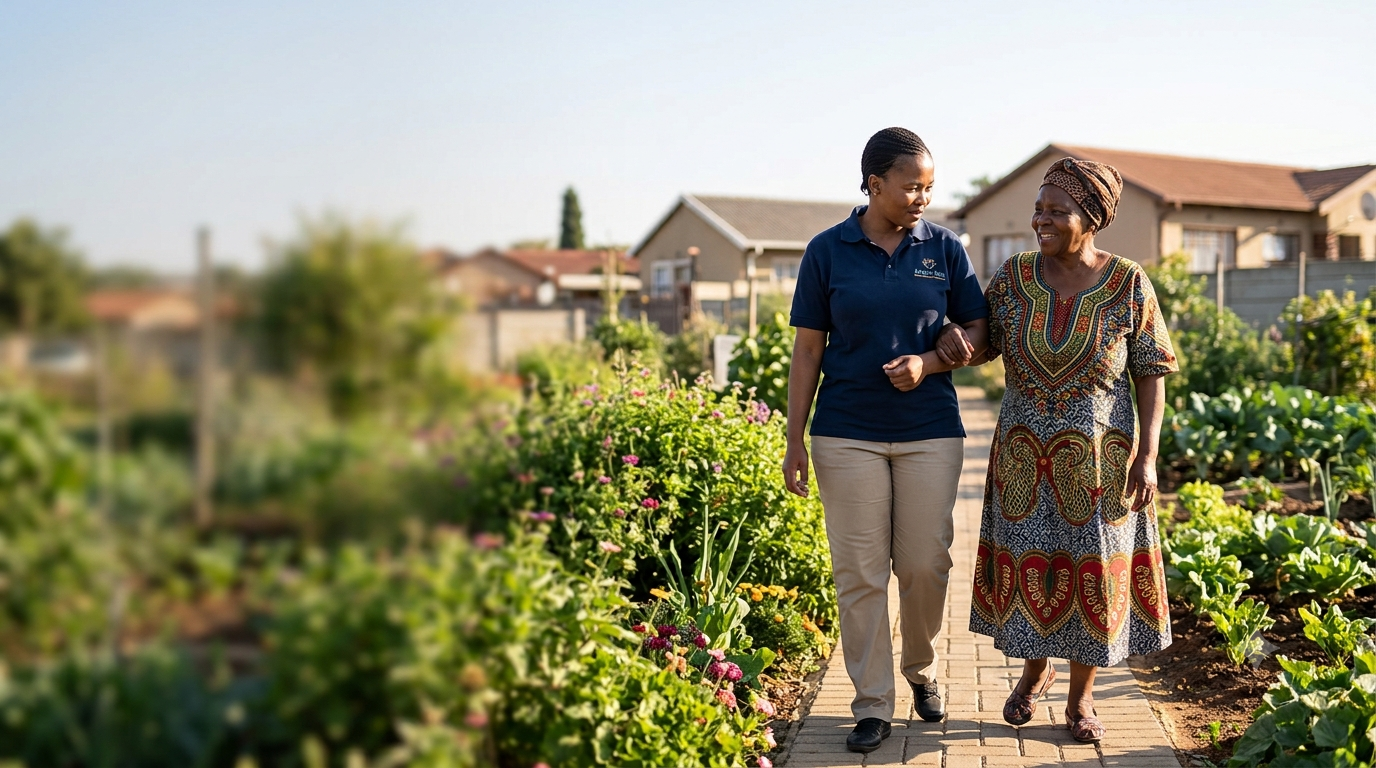
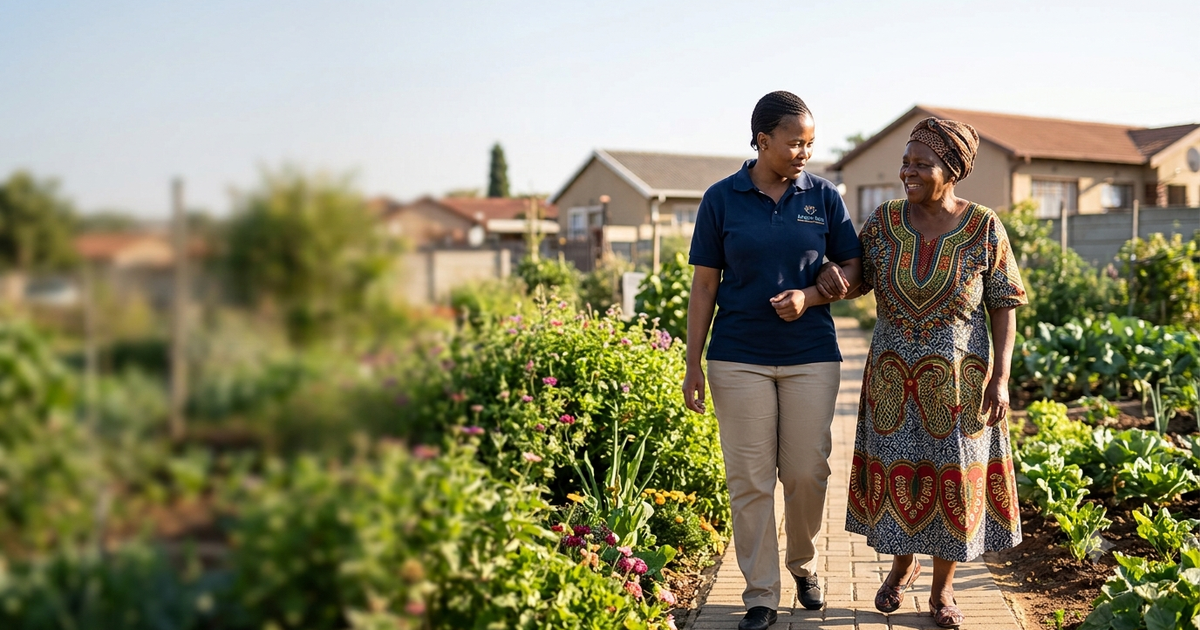
feat: upgrade production SEO and structured metadata

diff --git a/src/seo.ts b/src/seo.ts
@@ -1,0 +1,152 @@
+export const SITE_URL = 'https://kitsonet.org.za'
+export const SITE_NAME = 'Kitso-Net'
+export const DEFAULT_SOCIAL_IMAGE = '/images/social-preview.png'
+
+export type SeoConfig = {
+  title: string
+  description: string
+  path: string
+  keywords?: string[]
+  noIndex?: boolean
+}
+
+export const seoByPath: Record<string, SeoConfig> = {
+  '/': {
+    path: '/',
+    title: 'Kitso-Net | Older Persons Care in Johannesburg',
+    description: 'Kitso-Net provides home-based care, health support, active-ageing programmes and compassionate community support for older persons in Johannesburg.',
+    keywords: ['older persons care Johannesburg', 'home-based care Johannesburg', 'elderly care Johannesburg', 'active ageing South Africa', 'community care NGO Johannesburg'],
+  },
+  '/about': {
+    path: '/about',
+    title: 'About Kitso-Net | Community Care in Johannesburg Since 2003',
+    description: 'Meet Kitso-Net, a Johannesburg non-profit supporting older persons, families and caregivers through practical, community-rooted care since 2003.',
+    keywords: ['Kitso-Net', 'Johannesburg non-profit', 'older persons NGO Johannesburg', 'community care South Africa'],
+  },
+  '/programmes': {
+    path: '/programmes',
+    title: 'Older Persons Care Programmes in Johannesburg | Kitso-Net',
+    description: 'Explore home-based care, active ageing, health outreach, counselling and psychosocial support for older persons and families in Johannesburg.',
+    keywords: ['home-based care Johannesburg', 'active ageing programmes', 'older persons support Johannesburg', 'health outreach Johannesburg', 'elderly counselling support'],
+  },
+  '/impact': {
+    path: '/impact',
+    title: 'Community Impact for Older Persons in Johannesburg | Kitso-Net',
+    description: 'See how Kitso-Net strengthens dignity, independence and connection for older persons, families and communities across Johannesburg.',
+    keywords: ['older persons community impact', 'Johannesburg community care', 'elderly support NGO impact'],
+  },
+  '/get-involved': {
+    path: '/get-involved',
+    title: 'Donate, Volunteer or Partner with Kitso-Net | Johannesburg',
+    description: 'Donate, volunteer, partner or contribute resources to help Kitso-Net provide dependable community care for older persons in Johannesburg.',
+    keywords: ['donate elderly care Johannesburg', 'volunteer older persons Johannesburg', 'NGO partnership Johannesburg', 'support Kitso-Net'],
+  },
+  '/contact': {
+    path: '/contact',
+    title: 'Contact Kitso-Net | Older Persons Care & Referrals Johannesburg',
+    description: 'Contact Kitso-Net for older persons care enquiries, referrals, volunteering, donations and partnerships in Johannesburg, South Africa.',
+    keywords: ['older persons care contact Johannesburg', 'elderly care referral Johannesburg', 'Kitso-Net contact'],
+  },
+  '/privacy': {
+    path: '/privacy',
+    title: 'Privacy Policy | Kitso-Net',
+    description: 'Read how Kitso-Net collects, uses, protects and manages personal information submitted through this website.',
+  },
+  '/terms': {
+    path: '/terms',
+    title: 'Terms of Use | Kitso-Net',
+    description: 'Read the terms governing use of the Kitso-Net website, its information, content and online services.',
+  },
+}
+
+const organisation = {
+  '@type': 'NGO',
+  '@id': `${SITE_URL}/#organization`,
+  name: SITE_NAME,
+  url: SITE_URL,
+  logo: {
+    '@type': 'ImageObject',
+    url: `${SITE_URL}/images/kitsonet-favicon.png`,
+    width: 512,
+    height: 512,
+  },
+  image: `${SITE_URL}${DEFAULT_SOCIAL_IMAGE}`,
+  foundingDate: '2003',
+  description: 'A community-focused non-profit organisation providing care and support to older persons and families in Johannesburg.',
+  email: 'Kitsonet@classicmail.co.za',
+  address: {
+    '@type': 'PostalAddress',
+    streetAddress: 'No. 1 Rose Street, Rosettenville',
+    addressLocality: 'Johannesburg',
+    postalCode: '2190',
+    addressCountry: 'ZA',
+  },
+  areaServed: {
+    '@type': 'City',
+    name: 'Johannesburg',
+  },
+}
+
+const website = {
+  '@type': 'WebSite',
+  '@id': `${SITE_URL}/#website`,
+  url: `${SITE_URL}/`,
+  name: SITE_NAME,
+  inLanguage: 'en-ZA',
+  publisher: { '@id': `${SITE_URL}/#organization` },
+}
+
+export function structuredDataForPath(path: string) {
+  const config = seoByPath[path]
+  if (!config) return undefined
+
+  const canonical = `${SITE_URL}${path === '/' ? '/' : path}`
+  const pageType = path === '/about' ? 'AboutPage' : path === '/contact' ? 'ContactPage' : path === '/programmes' ? 'CollectionPage' : 'WebPage'
+  const page = {
+    '@type': pageType,
+    '@id': `${canonical}#webpage`,
+    url: canonical,
+    name: config.title,
+    description: config.description,
+    isPartOf: { '@id': `${SITE_URL}/#website` },
+    about: { '@id': `${SITE_URL}/#organization` },
+    inLanguage: 'en-ZA',
+  }
+
+  const graph: Record<string, unknown>[] = [organisation, website, page]
+
+  if (path !== '/') {
+    graph.push({
+      '@type': 'BreadcrumbList',
+      '@id': `${canonical}#breadcrumb`,
+      itemListElement: [
+        { '@type': 'ListItem', position: 1, name: 'Home', item: `${SITE_URL}/` },
+        { '@type': 'ListItem', position: 2, name: config.title.split(' | ')[0], item: canonical },
+      ],
+    })
+  }
+
+  if (path === '/programmes') {
+    graph.push({
+      '@type': 'ItemList',
+      name: 'Kitso-Net care programmes',
+      itemListElement: [
+        'Home-Based Care',
+        'Service Centre & Active Ageing',
+        'Health Promotion & Community Outreach',
+        'Counselling & Psychosocial Support',
+      ].map((name, index) => ({
+        '@type': 'ListItem',
+        position: index + 1,
+        item: {
+          '@type': 'Service',
+          name,
+          provider: { '@id': `${SITE_URL}/#organization` },
+          areaServed: { '@type': 'City', name: 'Johannesburg' },
+        },
+      })),
+    })
+  }
+
+  return { '@context': 'https://schema.org', '@graph': graph }
+}

diff --git a/src/components/Seo.tsx b/src/components/Seo.tsx
@@ -1,15 +1,16 @@
 import { useEffect } from 'react'
+import { DEFAULT_SOCIAL_IMAGE, SITE_NAME, SITE_URL } from '../seo'
 
 type SeoProps = {
   title: string
   description: string
   path: string
   image?: string
+  imageAlt?: string
+  keywords?: string[]
   noIndex?: boolean
   structuredData?: Record<string, unknown> | Array<Record<string, unknown>>
 }
-
-const DEFAULT_IMAGE = '/images/social-preview.png'
 
 function upsertMeta(selector: string, attributes: Record<string, string>) {
   let element = document.head.querySelector<HTMLMetaElement>(selector)
@@ -20,41 +21,62 @@ function upsertMeta(selector: string, attributes: Record<string, string>) {
   Object.entries(attributes).forEach(([key, value]) => element?.setAttribute(key, value))
 }
 
-function upsertLink(rel: string, href: string) {
-  let element = document.head.querySelector<HTMLLinkElement>(`link[rel="${rel}"]`)
+function upsertLink(rel: string, href: string, hreflang?: string) {
+  const selector = hreflang ? `link[rel="${rel}"][hreflang="${hreflang}"]` : `link[rel="${rel}"]:not([hreflang])`
+  let element = document.head.querySelector<HTMLLinkElement>(selector)
   if (!element) {
     element = document.createElement('link')
     element.rel = rel
     document.head.appendChild(element)
   }
   element.href = href
+  if (hreflang) element.hreflang = hreflang
 }
 
-export default function Seo({ title, description, path, image = DEFAULT_IMAGE, noIndex = false, structuredData }: SeoProps) {
+export default function Seo({
+  title,
+  description,
+  path,
+  image = DEFAULT_SOCIAL_IMAGE,
+  imageAlt = 'Kitso-Net community care for older persons in Johannesburg',
+  keywords = [],
+  noIndex = false,
+  structuredData,
+}: SeoProps) {
   useEffect(() => {
-    const siteUrl = (import.meta.env.VITE_SITE_URL || window.location.origin).replace(/\/$/, '')
-    const canonicalUrl = `${siteUrl}${path === '/' ? '' : path}`
+    const configuredSiteUrl = import.meta.env.VITE_SITE_URL?.replace(/\/$/, '')
+    const siteUrl = configuredSiteUrl || (import.meta.env.PROD ? SITE_URL : window.location.origin)
+    const canonicalUrl = `${siteUrl}${path === '/' ? '/' : path}`
     const imageUrl = image.startsWith('http') ? image : `${siteUrl}${image}`
 
     document.title = title
     upsertMeta('meta[name="description"]', { name: 'description', content: description })
-    upsertMeta('meta[name="robots"]', { name: 'robots', content: noIndex ? 'noindex, nofollow' : 'index, follow, max-image-preview:large' })
+    upsertMeta('meta[name="robots"]', { name: 'robots', content: noIndex ? 'noindex, nofollow' : 'index, follow, max-image-preview:large, max-snippet:-1, max-video-preview:-1' })
+    upsertMeta('meta[name="googlebot"]', { name: 'googlebot', content: noIndex ? 'noindex, nofollow' : 'index, follow, max-image-preview:large, max-snippet:-1, max-video-preview:-1' })
+    if (keywords.length) upsertMeta('meta[name="keywords"]', { name: 'keywords', content: keywords.join(', ') })
 
     upsertMeta('meta[property="og:title"]', { property: 'og:title', content: title })
     upsertMeta('meta[property="og:description"]', { property: 'og:description', content: description })
     upsertMeta('meta[property="og:type"]', { property: 'og:type', content: 'website' })
     upsertMeta('meta[property="og:url"]', { property: 'og:url', content: canonicalUrl })
     upsertMeta('meta[property="og:image"]', { property: 'og:image', content: imageUrl })
-    upsertMeta('meta[property="og:image:alt"]', { property: 'og:image:alt', content: 'Kitso-Net community care for older persons' })
-    upsertMeta('meta[property="og:site_name"]', { property: 'og:site_name', content: 'Kitso-Net' })
+    upsertMeta('meta[property="og:image:secure_url"]', { property: 'og:image:secure_url', content: imageUrl })
+    upsertMeta('meta[property="og:image:type"]', { property: 'og:image:type', content: 'image/png' })
+    upsertMeta('meta[property="og:image:width"]', { property: 'og:image:width', content: '1200' })
+    upsertMeta('meta[property="og:image:height"]', { property: 'og:image:height', content: '630' })
+    upsertMeta('meta[property="og:image:alt"]', { property: 'og:image:alt', content: imageAlt })
+    upsertMeta('meta[property="og:site_name"]', { property: 'og:site_name', content: SITE_NAME })
     upsertMeta('meta[property="og:locale"]', { property: 'og:locale', content: 'en_ZA' })
 
     upsertMeta('meta[name="twitter:card"]', { name: 'twitter:card', content: 'summary_large_image' })
     upsertMeta('meta[name="twitter:title"]', { name: 'twitter:title', content: title })
     upsertMeta('meta[name="twitter:description"]', { name: 'twitter:description', content: description })
     upsertMeta('meta[name="twitter:image"]', { name: 'twitter:image', content: imageUrl })
+    upsertMeta('meta[name="twitter:image:alt"]', { name: 'twitter:image:alt', content: imageAlt })
 
     upsertLink('canonical', canonicalUrl)
+    upsertLink('alternate', canonicalUrl, 'en-ZA')
+    upsertLink('alternate', canonicalUrl, 'x-default')
 
     const scriptId = 'kitso-net-structured-data'
     document.getElementById(scriptId)?.remove()
@@ -65,7 +87,7 @@ export default function Seo({ title, description, path, image = DEFAULT_IMAGE, n
       script.textContent = JSON.stringify(structuredData)
       document.head.appendChild(script)
     }
-  }, [title, description, path, image, noIndex, structuredData])
+  }, [title, description, path, image, imageAlt, keywords, noIndex, structuredData])
 
   return null
 }

diff --git a/index.html b/index.html
@@ -3,31 +3,41 @@
   <head>
     <meta charset="UTF-8" />
     <meta name="viewport" content="width=device-width, initial-scale=1.0" />
-    <meta name="description" content="Kitso-Net provides compassionate home-based care, health support, active-ageing programmes and meaningful connection for older persons and families in Johannesburg." />
-    <meta name="robots" content="index, follow, max-image-preview:large" />
+    <meta name="description" content="Kitso-Net provides home-based care, health support, active-ageing programmes and compassionate community support for older persons in Johannesburg." />
+    <meta name="robots" content="index, follow, max-image-preview:large, max-snippet:-1, max-video-preview:-1" />
+    <meta name="googlebot" content="index, follow, max-image-preview:large, max-snippet:-1, max-video-preview:-1" />
     <meta name="theme-color" content="#235249" />
     <meta name="format-detection" content="telephone=yes" />
 
-    <meta property="og:title" content="Kitso-Net | Community Care for Older Persons in Johannesburg" />
-    <meta property="og:description" content="Compassionate community-based care and support for older persons and families in Johannesburg." />
+    <meta property="og:title" content="Kitso-Net | Older Persons Care in Johannesburg" />
+    <meta property="og:description" content="Home-based care, health support, active ageing and compassionate community support for older persons and families in Johannesburg." />
     <meta property="og:type" content="website" />
+    <meta property="og:url" content="https://kitsonet.org.za/" />
     <meta property="og:site_name" content="Kitso-Net" />
     <meta property="og:locale" content="en_ZA" />
-    <meta property="og:image" content="/images/social-preview.png" />
+    <meta property="og:image" content="https://kitsonet.org.za/images/social-preview.png" />
+    <meta property="og:image:secure_url" content="https://kitsonet.org.za/images/social-preview.png" />
+    <meta property="og:image:type" content="image/png" />
+    <meta property="og:image:width" content="1200" />
+    <meta property="og:image:height" content="630" />
     <meta property="og:image:alt" content="Kitso-Net community care for older persons" />
 
     <meta name="twitter:card" content="summary_large_image" />
-    <meta name="twitter:title" content="Kitso-Net | Community Care for Older Persons" />
-    <meta name="twitter:description" content="Compassionate community-based care and support for older persons and families in Johannesburg." />
-    <meta name="twitter:image" content="/images/social-preview.png" />
+    <meta name="twitter:title" content="Kitso-Net | Older Persons Care in Johannesburg" />
+    <meta name="twitter:description" content="Home-based care, health support, active ageing and compassionate community support for older persons and families in Johannesburg." />
+    <meta name="twitter:image" content="https://kitsonet.org.za/images/social-preview.png" />
+    <meta name="twitter:image:alt" content="Kitso-Net community care for older persons in Johannesburg" />
 
+    <link rel="canonical" href="https://kitsonet.org.za/" />
+    <link rel="alternate" hreflang="en-ZA" href="https://kitsonet.org.za/" />
+    <link rel="alternate" hreflang="x-default" href="https://kitsonet.org.za/" />
     <link rel="icon" type="image/png" href="/images/kitsonet-favicon.png" />
     <link rel="apple-touch-icon" href="/images/kitsonet-favicon.png" />
     <link rel="preconnect" href="https://fonts.googleapis.com" />
     <link rel="preconnect" href="https://fonts.gstatic.com" crossorigin />
     <link href="https://fonts.googleapis.com/css2?family=Cormorant+Garamond:wght@500;600;700&family=DM+Sans:wght@400;500;600;700&display=swap" rel="stylesheet" />
 
-    <title>Kitso-Net | Community Care for Older Persons in Johannesburg</title>
+    <title>Kitso-Net | Older Persons Care in Johannesburg</title>
   </head>
   <body>
     <div id="root"></div>

diff --git a/src/App.tsx b/src/App.tsx
@@ -10,58 +10,7 @@ import GetInvolvedPage from './pages/GetInvolvedPage'
 import ContactPage from './pages/ContactPage'
 import LegalPage from './pages/LegalPage'
 import NotFoundPage from './pages/NotFoundPage'
-
-const organisationSchema = {
-  '@context': 'https://schema.org',
-  '@type': 'NGO',
-  name: 'Kitso-Net',
-  description: 'A community-focused non-profit organisation providing care and support to older persons and families in Johannesburg.',
-  email: 'Kitsonet@classicmail.co.za',
-  telephone: ['+27 11 434 3314', '+27 73 772 8447'],
-  address: {
-    '@type': 'PostalAddress',
-    streetAddress: 'No. 1 Rose Street, Rosettenville',
-    addressLocality: 'Johannesburg',
-    postalCode: '2190',
-    addressCountry: 'ZA',
-  },
-  areaServed: 'Johannesburg, South Africa',
-}
-
-const seoByPath: Record<string, { title: string; description: string }> = {
-  '/': {
-    title: 'Kitso-Net | Community Care for Older Persons in Johannesburg',
-    description: 'Kitso-Net provides compassionate home-based care, health support, active-ageing programmes and meaningful connection for older persons and families in Johannesburg.',
-  },
-  '/about': {
-    title: 'About Kitso-Net | Community Care Since 2003',
-    description: 'Learn about Kitso-Net, a Johannesburg non-profit supporting older persons, families and caregivers through practical, community-rooted care since 2003.',
-  },
-  '/programmes': {
-    title: 'Older Persons Care Programmes | Kitso-Net Johannesburg',
-    description: 'Explore Kitso-Net programmes including home-based care, counselling, health outreach and active-ageing support for older persons in Johannesburg.',
-  },
-  '/impact': {
-    title: 'Our Community Impact | Kitso-Net',
-    description: 'See how Kitso-Net strengthens dignity, independence and connection for older persons, families and communities across Johannesburg.',
-  },
-  '/get-involved': {
-    title: 'Donate, Volunteer or Partner | Kitso-Net',
-    description: 'Support Kitso-Net by donating, volunteering, partnering or contributing resources that help older persons receive dependable community care.',
-  },
-  '/contact': {
-    title: 'Contact Kitso-Net | Care, Referrals and Partnerships',
-    description: 'Contact Kitso-Net for care enquiries, referrals, volunteering, donations, partnerships or general information in Johannesburg.',
-  },
-  '/privacy': {
-    title: 'Privacy Policy | Kitso-Net',
-    description: 'Read how Kitso-Net collects, uses, protects and manages personal information submitted through this website.',
-  },
-  '/terms': {
-    title: 'Terms of Use | Kitso-Net',
-    description: 'Read the terms governing use of the Kitso-Net website, its information, content and online services.',
-  },
-}
+import { seoByPath, structuredDataForPath } from './seo'
 
 function App() {
   const path = window.location.pathname.replace(/\/$/, '') || '/'
@@ -80,7 +29,16 @@ function App() {
 
   return (
     <div className="min-h-screen">
-      {seo && <Seo title={seo.title} description={seo.description} path={path} structuredData={path === '/' ? organisationSchema : undefined} />}
+      {seo && (
+        <Seo
+          title={seo.title}
+          description={seo.description}
+          path={seo.path}
+          keywords={seo.keywords}
+          noIndex={seo.noIndex}
+          structuredData={structuredDataForPath(path)}
+        />
+      )}
       <Header />
       <main>{page ?? <NotFoundPage />}</main>
       <Footer />
